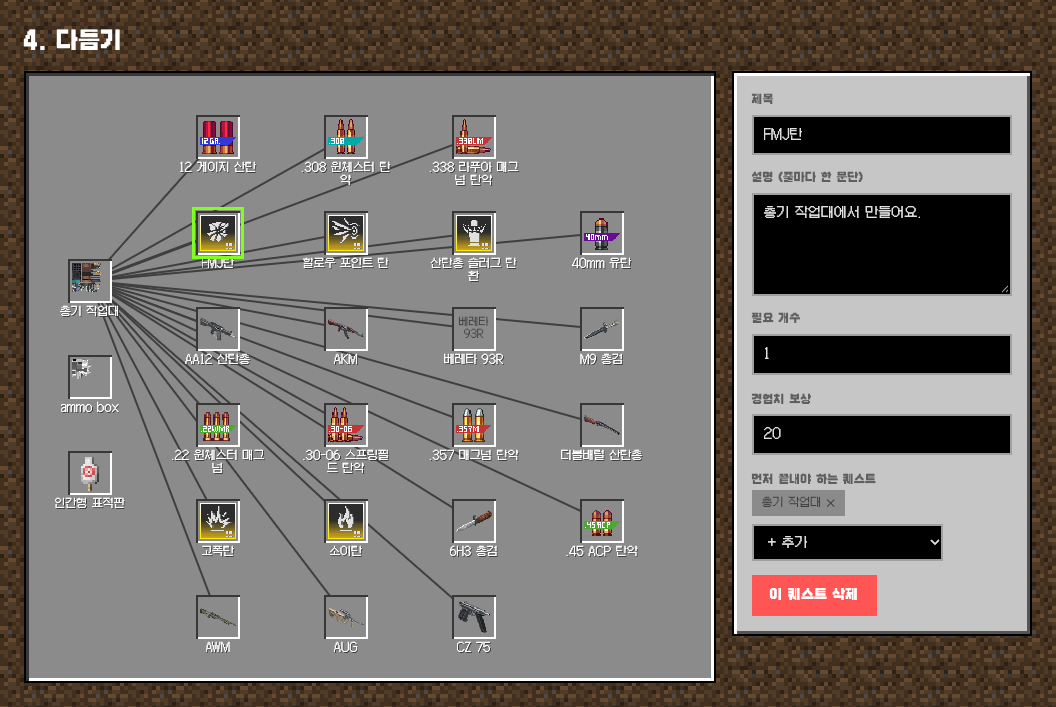
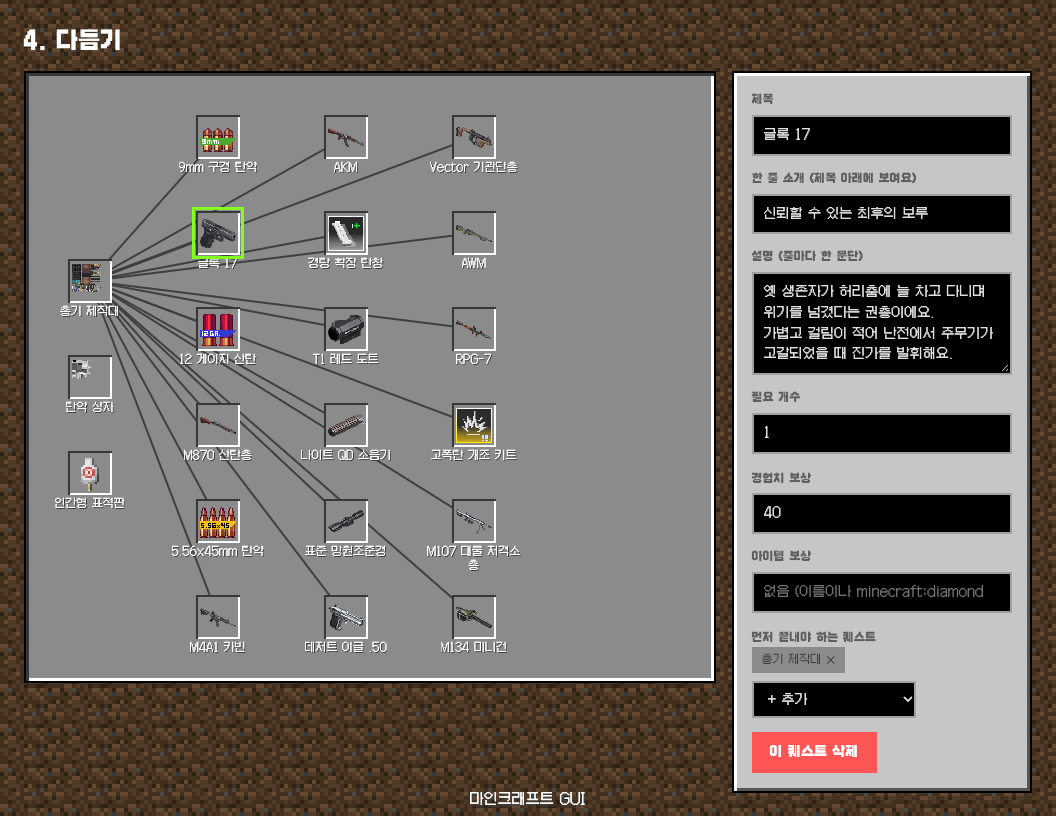
feat: punchier quest text with hook subtitles, editable item rewards
Quests get an FTB subtitle (1.20.1 'subtitle', 1.21.1 lang 'quest_subtitle') for a one-line hook,
and the prompt rotates voices so descriptions stop reading like a manual.
The editor can set any known item as a reward; ids that aren't namespace:path are left out on export.

diff --git a/app/components/QuestMap.tsx b/app/components/QuestMap.tsx
@@ -3,6 +3,7 @@
 import { useRef, useState } from "react";
 import type { Chapter, Quest } from "@/lib/types";
 import { Slot, type Lookup } from "./Slot";
+import { ITEM_ID } from "@/lib/snbt";
 
 const S = 64; // px per FTB quest unit
 const SNAP = 0.5;
@@ -13,9 +14,10 @@ type Props = {
   onChange: (c: Chapter) => void;
   addable: { key: string; label: string }[];
   onAdd: (key: string) => void;
+  items: { id: string; name: string }[];
 };
 
-export function QuestMap({ chapter, lookup, onChange, addable, onAdd }: Props) {
+export function QuestMap({ chapter, lookup, onChange, addable, onAdd, items }: Props) {
   const [selected, setSelected] = useState<string>();
   const drag = useRef<{ id: string; px: number; py: number; x: number; y: number; moved: boolean; bounds: Bounds }>(null);
   const [frozen, setFrozen] = useState<Bounds>();
@@ -109,6 +111,10 @@ export function QuestMap({ chapter, lookup, onChange, addable, onAdd }: Props) {
               <input value={quest.title} onChange={(e) => update(quest.id, { title: e.target.value })} />
             </label>
             <label>
+              <span className="label">한 줄 소개 (제목 아래에 보여요)</span>
+              <input value={quest.subtitle ?? ""} onChange={(e) => update(quest.id, { subtitle: e.target.value || undefined })} />
+            </label>
+            <label>
               <span className="label">설명 (줄마다 한 문단)</span>
               <textarea
                 rows={4}
@@ -126,15 +132,44 @@ export function QuestMap({ chapter, lookup, onChange, addable, onAdd }: Props) {
                 <input type="number" min={0} value={quest.xp} onChange={(e) => update(quest.id, { xp: Math.max(0, +e.target.value) })} />
               </label>
             </div>
-            {quest.rewardItem && (
-              <div className="reward">
+            <div className="reward">
+              <label>
                 <span className="label">아이템 보상</span>
-                <Slot id={quest.rewardItem} count={quest.rewardCount} lookup={lookup} />
-                <button className="link" onClick={() => update(quest.id, { rewardItem: undefined, rewardCount: undefined })}>
-                  빼기
-                </button>
-              </div>
-            )}
+                <input
+                  list="quill-items"
+                  placeholder="없음 (이름이나 minecraft:diamond)"
+                  value={quest.rewardItem ?? ""}
+                  onChange={(e) => {
+                    const v = e.target.value.trim();
+                    update(quest.id, { rewardItem: v || undefined, rewardCount: v ? quest.rewardCount ?? 1 : undefined });
+                  }}
+                />
+              </label>
+              {quest.rewardItem && (
+                <>
+                  <label className="reward-count">
+                    <span className="label">개수</span>
+                    <input
+                      type="number"
+                      min={1}
+                      max={64}
+                      value={quest.rewardCount ?? 1}
+                      onChange={(e) => update(quest.id, { rewardCount: Math.min(64, Math.max(1, +e.target.value)) })}
+                    />
+                  </label>
+                  {ITEM_ID.test(quest.rewardItem) ? (
+                    <Slot id={quest.rewardItem} count={quest.rewardCount} lookup={lookup} />
+                  ) : (
+                    <span className="warn">목록에서 고르거나 모드id:아이템 형식으로 써 주세요. 이대로면 보상에서 빠져요.</span>
+                  )}
+                </>
+              )}
+            </div>
+            <datalist id="quill-items">
+              {items.map((i) => (
+                <option key={i.id} value={i.id} label={i.name} />
+              ))}
+            </datalist>
             <div>
               <span className="label">먼저 끝내야 하는 퀘스트</span>
               <div className="chips">

diff --git a/app/api/quests/route.ts b/app/api/quests/route.ts
@@ -14,7 +14,7 @@ export type QuestsRequest = {
 export type QuestsResponse = {
   chapter_title: string;
   chapter_subtitle: string;
-  quests: { key: string; title: string; description: string[]; xp: number; reward_item: string; reward_count: number }[];
+  quests: { key: string; title: string; subtitle: string; description: string[]; xp: number; reward_item: string; reward_count: number }[];
 };
 
 const schema = {
@@ -29,12 +29,13 @@ const schema = {
         properties: {
           key: { type: "string", description: "a candidate key, copied exactly" },
           title: { type: "string" },
+          subtitle: { type: "string", description: "one punchy hook line, not an explanation" },
           description: { type: "array", items: { type: "string" }, description: "1-3 short lines" },
           xp: { type: "integer" },
           reward_item: { type: "string", description: "an id from reward_pool, or empty" },
           reward_count: { type: "integer" },
         },
-        required: ["key", "title", "description", "xp", "reward_item", "reward_count"],
+        required: ["key", "title", "subtitle", "description", "xp", "reward_item", "reward_count"],
       },
     },
   },
@@ -54,12 +55,21 @@ export function POST(req: Request) {
 Pick at most ${max} candidates that make a good progression: stations and machines, key intermediate parts,
 and the items players actually want. Skip trivial variants (slabs, stairs, colors, every attachment of one kind).
 Always include the earliest step players need to start this mod.
+Write like a game, not a manual. Players skim; the first line has to make them want the item.
 For each picked quest write, in ${language}:
 - title: short, names the item or the goal
-- description: 1-3 short lines on what it is for and how to make it (mention the station when it matters)
+- subtitle: one hook line under the title. Make it hit: a boast, a promise, a warning, a line of lore.
+  It may break the polite register: a short fragment or a blunt statement works best.
+  Style reference only, never reuse these lines: anti-materiel rifle "무엇이든 누구든, 한 방이면 충분해" / furnace "불을 다루는 자가 살아남는다"
+  Never just restate the item name or explain the recipe here.
+- description: rotate the voice from quest to quest, never two in a row the same:
+  story (a scrap of lore, someone who used it), direct challenge to the player, dry humor, plain field tip.
+  Vary the length too: some quests get one line, some three. Not every quest needs a how-to line;
+  when there is one, keep it short and last.
+  Keep a thread through the chapter: early quests feel like a beginning, the deepest ones like a payoff.
 - xp: ${XP[r.reward] ?? XP.normal}, more for deeper items
 - reward_item/reward_count: optionally a useful material from reward_pool for the next step, else "" and 0
-Also write chapter_title and chapter_subtitle in ${language}.
+Also write chapter_title and chapter_subtitle in ${language}; the subtitle sets the chapter's story in one line.
 Copy keys exactly. Never invent keys or reward ids.
 
 candidates (depth = crafting steps from raw materials):

diff --git a/lib/snbt.check.ts b/lib/snbt.check.ts
@@ -14,7 +14,7 @@ const chapter: Chapter = {
   quests: [
     {
       id: "2222222222222222", key: "tacz:ak47", item: "tacz:modern_kinetic_gun", nbt: { GunId: "tacz:ak47" },
-      count: 1, title: "AKM", description: ["첫 소총"], x: 2, y: -0.75, deps: ["3333333333333333"], xp: 50,
+      count: 1, title: "AKM", subtitle: "한 방이면 충분해", description: ["첫 소총"], x: 2, y: -0.75, deps: ["3333333333333333"], xp: 50,
       rewardItem: "minecraft:iron_ingot", rewardCount: 4,
     },
   ],
@@ -24,6 +24,7 @@ const old = questFiles([chapter], "1.20.1", { newBook: true, locale: "ko_kr" });
 const ch = old["config/ftbquests/quests/chapters/quill_tacz.snbt"];
 assert.ok(old["config/ftbquests/quests/data.snbt"].includes("version: 13"));
 assert.ok(ch.includes('title: "AKM"'));
+assert.ok(ch.includes('subtitle: "한 방이면 충분해"'));
 assert.ok(ch.includes('item: {\n\t\t\t\t\t\tCount: 1b\n\t\t\t\t\t\tid: "tacz:modern_kinetic_gun"\n\t\t\t\t\t\ttag: {\n\t\t\t\t\t\t\tGunId: "tacz:ak47"'));
 assert.ok(ch.includes("match_nbt: true"));
 assert.ok(ch.includes("x: 2.0d") && ch.includes("y: -0.75d"));
@@ -38,8 +39,13 @@ assert.ok(!ch2.includes("AKM"), "1.21 keeps text out of chapter files");
 assert.ok(ch2.includes('"minecraft:custom_data": {') && ch2.includes('match_components: "strict"'));
 const lang = neu["config/ftbquests/quests/lang/ko_kr.snbt"];
 assert.ok(lang.includes('quest.2222222222222222.title: "AKM"'));
+assert.ok(lang.includes('quest.2222222222222222.quest_subtitle: "한 방이면 충분해"'));
 assert.ok(lang.includes('quest.2222222222222222.quest_desc: [\n\t\t"첫 소총"'));
 assert.equal(neu["config/ftbquests/quests/lang/en_us.snbt"], lang);
+// a hand-typed reward that isn't an item id is dropped, the xp reward stays
+const typo = questFiles([{ ...chapter, quests: [{ ...chapter.quests[0], rewardItem: "다이아몬드" }] }], "1.20.1", { newBook: false, locale: "ko_kr" });
+const typoCh = typo["config/ftbquests/quests/chapters/quill_tacz.snbt"];
+assert.ok(!typoCh.includes("다이아몬드") && typoCh.includes('type: "xp"'));
 // round trip: what we write, we can read back
 const back = parseSnbt(ch) as { quests: { x: number; tasks: { item: { id: string; Count: number; tag: { GunId: string } } }[] }[] };
 assert.equal(back.quests[0].x, 2);

diff --git a/lib/snbt.ts b/lib/snbt.ts
@@ -37,6 +37,9 @@ export function snbt(v: V, indent = ""): string {
   return `{\n${entries.map(([k, x]) => `${inner}${keyOf(k)}: ${snbt(x, inner)}`).join("\n")}\n${indent}}`;
 }
 
+// namespace:path; a hand-typed reward that isn't one is left out instead of breaking the quest file
+export const ITEM_ID = /^[a-z0-9_.-]+:[a-z0-9_./-]+$/;
+
 function item(id: string, nbt: Record<string, string> | undefined, version: McVersion): V {
   if (version === "1.21.1") return nbt ? { id, count: 1, components: { "minecraft:custom_data": nbt } } : { id, count: 1 };
   return nbt ? { id, Count: b(1), tag: nbt } : id; // ftbquests NBTUtils.write: plain count-1 items become a bare id string
@@ -46,13 +49,14 @@ function quest(q: Quest, version: McVersion): V {
   const legacyText = version === "1.20.1";
   const rewards: V[] = [];
   if (q.xp > 0) rewards.push({ id: newId(), type: "xp", xp: Math.round(q.xp) });
-  if (q.rewardItem)
+  if (q.rewardItem && ITEM_ID.test(q.rewardItem))
     rewards.push({ id: newId(), type: "item", item: item(q.rewardItem, undefined, version), count: q.rewardCount && q.rewardCount > 1 ? q.rewardCount : undefined });
   return {
     id: q.id,
     x: d(q.x),
     y: d(q.y),
     title: legacyText ? q.title : undefined,
+    subtitle: legacyText && q.subtitle ? q.subtitle : undefined,
     description: legacyText && q.description.length ? q.description : undefined,
     dependencies: q.deps.length ? q.deps : undefined,
     tasks: [
@@ -102,6 +106,7 @@ export function questFiles(chapters: Chapter[], version: McVersion, opts: { newB
       if (c.subtitle) lang[`chapter.${c.id}.chapter_subtitle`] = [c.subtitle];
       for (const q of c.quests) {
         lang[`quest.${q.id}.title`] = q.title;
+        if (q.subtitle) lang[`quest.${q.id}.quest_subtitle`] = q.subtitle;
         if (q.description.length) lang[`quest.${q.id}.quest_desc`] = q.description;
       }
     }

diff --git a/app/page.tsx b/app/page.tsx
@@ -84,6 +84,8 @@ export default function Home() {
     () => ({ label: (id) => extract.names.get(withNs(id)) ?? fallbackName(id), icons: extract.icons, invented }),
     [extract, invented],
   );
+  // Every item Quill knows a name for (mods + vanilla): what a hand-picked reward can be.
+  const items = useMemo(() => [...extract.names].map(([id, name]) => ({ id, name })), [extract]);
   const trees = useMemo(() => Object.fromEntries(Object.entries(recipes).map(([m, r]) => [m, buildTree(r)])), [recipes]);
   const mods = useMemo(() => {
     const list = [...extract.mods];
@@ -519,6 +521,7 @@ export default function Home() {
             lookup={lookup}
             onChange={(c) => updateChapter(active, c)}
             addable={addable}
+            items={items}
             onAdd={(k) => addQuest(active, k)}
           />
         </section>

diff --git a/app/globals.css b/app/globals.css
@@ -229,7 +229,10 @@ button:disabled { opacity: 0.5; cursor: not-allowed; }
 .node.selected .slot { outline: 3px solid var(--accent); outline-offset: 1px; }
 .editor { display: flex; flex-direction: column; gap: 14px; position: sticky; top: 16px; }
 .editor p { margin: 0; }
-.reward { display: flex; align-items: center; gap: 10px; }
+.reward { display: flex; flex-wrap: wrap; align-items: flex-end; gap: 10px; }
+.reward > label:first-child { flex: 1 1 12em; }
+.reward-count { width: 5em; }
+.warn { color: var(--bad); font-size: 0.85em; flex-basis: 100%; }
 
 /* ---- gui: bevelled grey window, sunken slots ---- */
 [data-theme="gui"] .panel { border: 2px solid #000; box-shadow: inset 3px 3px 0 var(--panel-hi), inset -3px -3px 0 var(--panel-lo); }

diff --git a/lib/tree.ts b/lib/tree.ts
@@ -105,7 +105,7 @@ export function layout(quests: Quest[], tree: Map<string, Node>) {
   }
 }
 
-export type QuestText = { key: string; title: string; description: string[]; xp: number; rewardItem?: string; rewardCount?: number };
+export type QuestText = { key: string; title: string; subtitle?: string; description: string[]; xp: number; rewardItem?: string; rewardCount?: number };
 
 export function buildChapter(
   mod: { id: string; name: string },
@@ -124,6 +124,7 @@ export function buildChapter(
       nbt: n.nbt,
       count: 1,
       title: t.title,
+      subtitle: t.subtitle,
       description: t.description,
       x: 0,
       y: 0,

diff --git a/lib/pipeline.ts b/lib/pipeline.ts
@@ -109,11 +109,12 @@ export async function chapterForMod(
   };
 
   try {
-    const out = await cached(["quests-v1", request], () => post<QuestsResponse>("/api/quests", request, key, onRetry));
+    const out = await cached(["quests-v2", request], () => post<QuestsResponse>("/api/quests", request, key, onRetry));
     if (!out.quests.length) throw new Error("AI가 고른 퀘스트가 없어요.");
     const texts: QuestText[] = out.quests.map((q) => ({
       key: q.key,
       title: q.title,
+      subtitle: q.subtitle,
       description: q.description,
       xp: q.xp,
       rewardItem: q.reward_item || undefined,

diff --git a/lib/types.ts b/lib/types.ts
@@ -24,6 +24,7 @@ export type Quest = {
   nbt?: Record<string, string>;
   count: number;
   title: string;
+  subtitle?: string; // one-line hook under the title
   description: string[];
   x: number;
   y: number;
